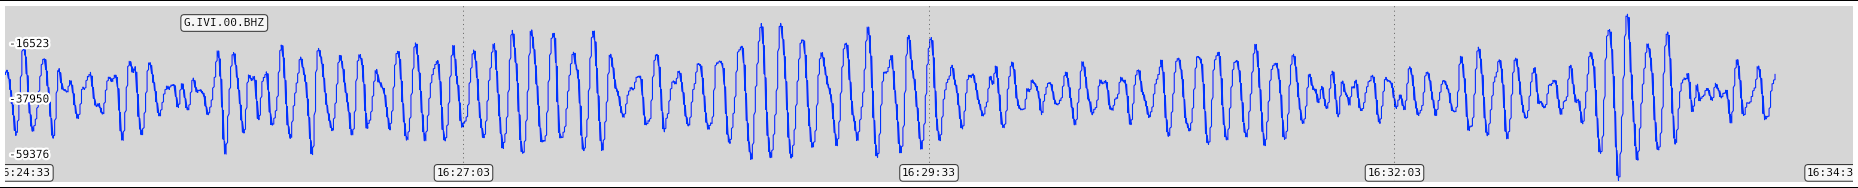
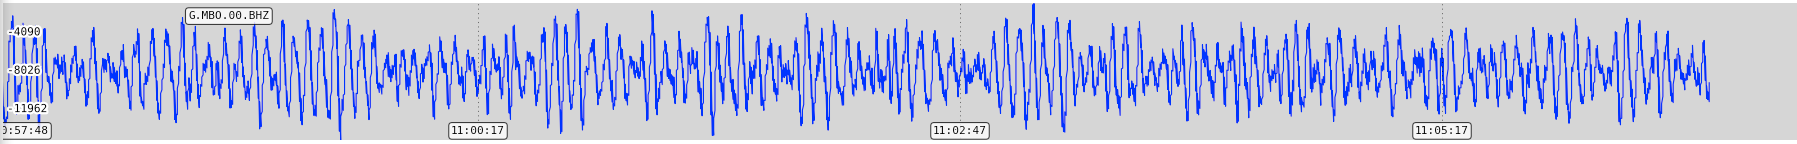
update of line_plot example with a realtime station (IVI is temporarly down...)

Changed region(s): [[0.0, 0.0, 1.0, 1.0], [0.8726, 0.0833, 0.9037, 0.1389]]

diff --git a/README.md b/README.md
@@ -25,7 +25,7 @@ Drum plots (with longer time range):
 
 Line plot with single station (with shorter time range):
 
-    seedlink-plotter -s "G_IVI:00BHZ" -b 600 --seedlink_server "rtserver.ipgp.fr:18000"  --line_plot
+    seedlink-plotter -s "G_MBO:00BHZ" -b 600 --seedlink_server "rtserver.ipgp.fr:18000"  --line_plot
 
 ![Plot_line](/img/plot_line.png)
 
